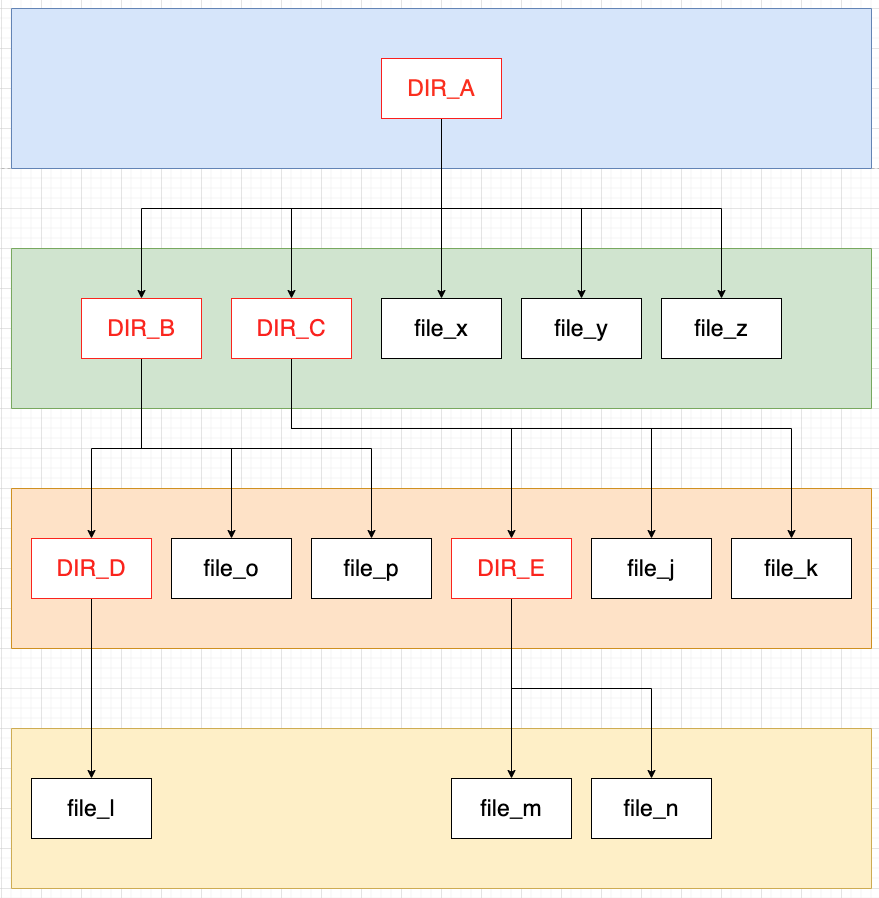
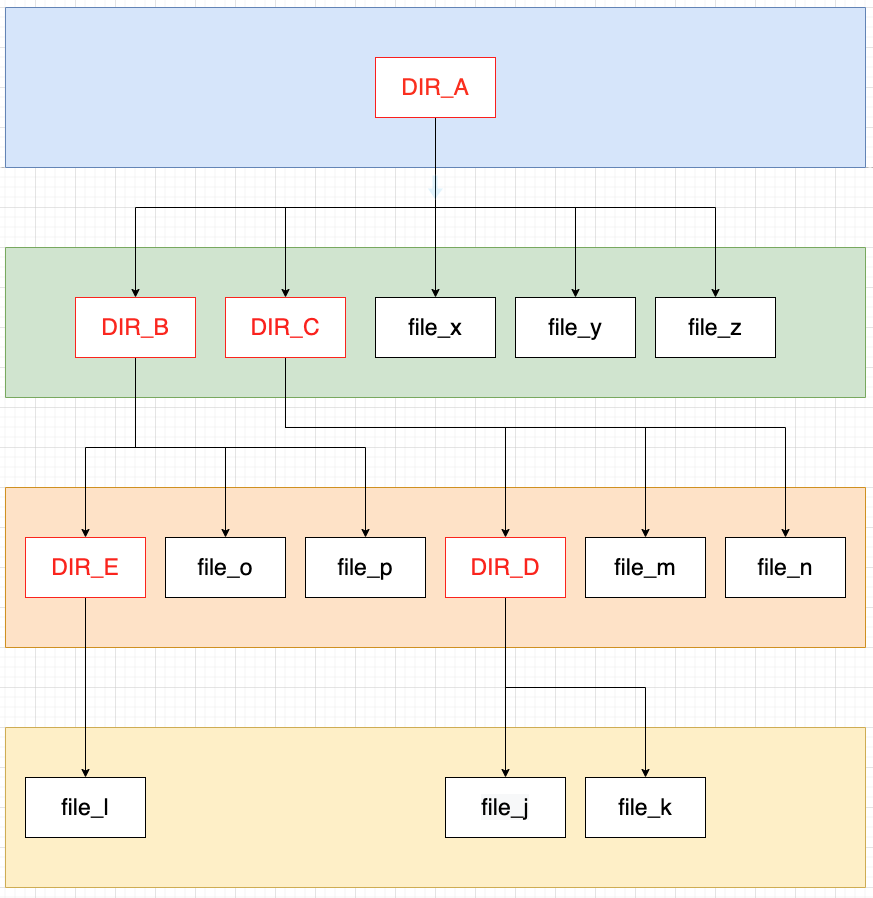
MOD 组织层级结构 - 路径枚举 path enum 方法

diff --git a/source/_posts/Business_Mysql_Storing_Hierarchical_Data_In_A_Database_Path_Enumerations.md b/source/_posts/Business_Mysql_Storing_Hierarchical_Data_In_A_Database_Path_Enumerations.md
@@ -1,4 +1,4 @@
-title: 【Mysql】Storing Hierarchical data by 【Path Enumerations】
+title: Storing Hierarchical data by 【Path Enumerations】
 date: 2021-08-23 18:51:00
 tags: [Data structure, Mysql]
 categories: [Data structure, Mysql]
@@ -25,32 +25,105 @@ toc: true
 
 每条记录存整个tree path经过的node枚举
 
-|id    |name  |path      |
-|------|------|----------|
-|1     |DIR_A |/1        |
-|2     |DIR_B |/1/2      |
-|3     |DIR_C |/1/3      |
-|4     |file_x|/1/4      |
-|5     |file_y|/1/5      |
-|6     |file_z|/1/6      |
-|7     |DIR_D |/1/2/7    |
-|8     |file_o|/1/2/8    |
-|9     |file_p|/1/2/9    |
-|10    |DIR_E |/1/3/10   |
-|11    |file_j|/1/3/11   |
-|12    |file_k|/1/3/12   |
-|13    |file_l|/1/2/7/13 |
-|14    |file_m|/1/3/10/14|
-|15    |file_n|/1/3/10/15|
+|id    |name  |path                      |
+|------|------|--------------------------|
+|1     |DIR_A |/DIR_A                    |
+|2     |DIR_B |/DIR_A/DIR_B              |
+|3     |DIR_C |/DIR_A/DIR_C              |
+|4     |file_x|/DIR_A/file_x             |
+|5     |file_y|/DIR_A/file_y             |
+|6     |file_z|/DIR_A/file_z             |
+|7     |DIR_D |/DIR_A/DIR_B/DIR_D        |
+|8     |file_o|/DIR_A/DIR_B/file_o       |
+|9     |file_p|/DIR_A/DIR_B/file_p       |
+|10    |DIR_E |/DIR_A/DIR_C/DIR_E        |
+|11    |file_m|/DIR_A/DIR_C/file_m       |
+|12    |file_n|/DIR_A/DIR_C/file_n       |
+|13    |file_l|/DIR_A/DIR_B/DIR_D/file_l |
+|14    |file_j|/DIR_A/DIR_C/DIR_E/file_j |
+|15    |file_k|/DIR_A/DIR_C/DIR_E/file_k |
 
-## 各种情况的处理带价
+## 各种情况的处理代价
 
 ### 增
+> 输入：name, path  
+> 执行：
+```sql
+insert into table(name, path) values($name, $path);
+```
+|id     |name    |path|
+|-------|--------|---------|
+|13     |file_l  |/DIR_A/DIR_B/DIR_D/file_l  |
+|14     |file_j  |/DIR_A/DIR_C/DIR_E/file_j  |
+|15     |file_k  |/DIR_A/DIR_C/DIR_E/file_k  |
+|16(add)|file_ADD|/DIR_A/DIR_C/DIR_E/file_ADD|
 
 ### 删
+> 输入：path  
+> 执行：  
+```sql
+delete from table where path like CONCAT($path, '%') ;
+```
 
 ### 改
+#### 无子集
+> 输入：path, other info
+> 执行：  
+```sql
+update table set info where path = $path
+```
+#### 有子集
+> 输入：path, other info
+> 执行：  
+```sql
+pre: 
+需要分割、拼接拿到old_path和new_path
+mysql 5.7:
+update table set info where path = $old_path
+update table set path = REPLACE(
+    CONCAT('^', $old_path), 
+    CONCAT('^', $new_path), 
+    $new_path) 
+where path like CONCAT($old_path, '%')
+```
 
 ### 查
+#### 查自己
+> 输入：path  
+> 执行：
+```sql
+select * from table where path = $path
+```
+#### 查下一级
+> 输入：id  
+> 执行：
+```sql
+select * from table where path regexp CONCAT('^', $path, '/.+', '((?!/).)')
+```
+#### 查所有子集
+> 输入：path  
+> 执行：
+```sql
+select * from table where path like CONCAT($path, '/%')
+```
+### 移动
+> 输入：path, new_path  
+> 执行：
+```sql
+pre: 
+old_path和new_path
+mysql 5.7: (同有子集改)
+update table set path = REPLACE(
+    CONCAT('^', $old_path), 
+    CONCAT('^', $new_path), 
+    $new_path) 
+where path like CONCAT($old_path, '%')
+```
 
 ### 组织层级关系
+
+
+## 总结
+**优点** : 查询、修改方便
+**缺点** : 需要大量用到模糊匹配；需要控制层级深度
+

diff --git a/source/_posts/Business_Mysql_Storing_Hierarchical_Data_In_A_Database_Adjacency_List.md b/source/_posts/Business_Mysql_Storing_Hierarchical_Data_In_A_Database_Adjacency_List.md
@@ -36,16 +36,15 @@ toc: true
 |8     |file_o|2        |
 |9     |file_p|2        |
 |10    |DIR_E |3        |
-|11    |file_j|3        |
-|12    |file_k|3        |
+|11    |file_m|3        |
+|12    |file_n|3        |
 |13    |file_l|7        |
-|14    |file_m|10       |
-|15    |file_n|10       |
+|14    |file_j|10       |
+|15    |file_k|10       |
 
 ## 各种情况的处理代价
 
 ### 增
-> 代价：O(1)  
 > 输入：name, parent_id  
 > 执行：
 ```sql
@@ -54,8 +53,8 @@ insert into table(name, parent_id) values($name, $parent_id);
 |id     |name    |parent_id|
 |-------|--------|---------|
 |13     |file_l  |7        |
-|14     |file_m  |10       |
-|15     |file_n  |10       |
+|14     |file_j  |10       |
+|15     |file_k  |10       |
 |16(add)|file_ADD|1        |
 
 ### 删
@@ -72,7 +71,6 @@ while (ids is not empty) {
 }
 ```
 #### 无子集
-> 代价：O(1)  
 > 输入：id  
 > 执行：  
 ```sql
@@ -80,7 +78,6 @@ delete from table where id = $id
 ```
 
 ### 改
-> 代价：O(1)  
 > 输入：id, other info  
 > 执行：  
 ```sql
@@ -89,14 +86,12 @@ update table set info where id = $id
 
 ### 查
 #### 查自己
-> 代价：O(1)  
 > 输入：id  
 > 执行：
 ```sql
 select * from table where id = $id
 ```
-#### 查下一级
-> 代价：O(1)  
+#### 查下一级 
 > 输入：id  
 > 执行：
 ```sql
@@ -115,7 +110,6 @@ while (sub_ids is not empty) {
 }
 ```
 ### 移动
-> 代价：O(1)
 > 输入：id, new_parent_id  
 > 执行：
 ```sql
